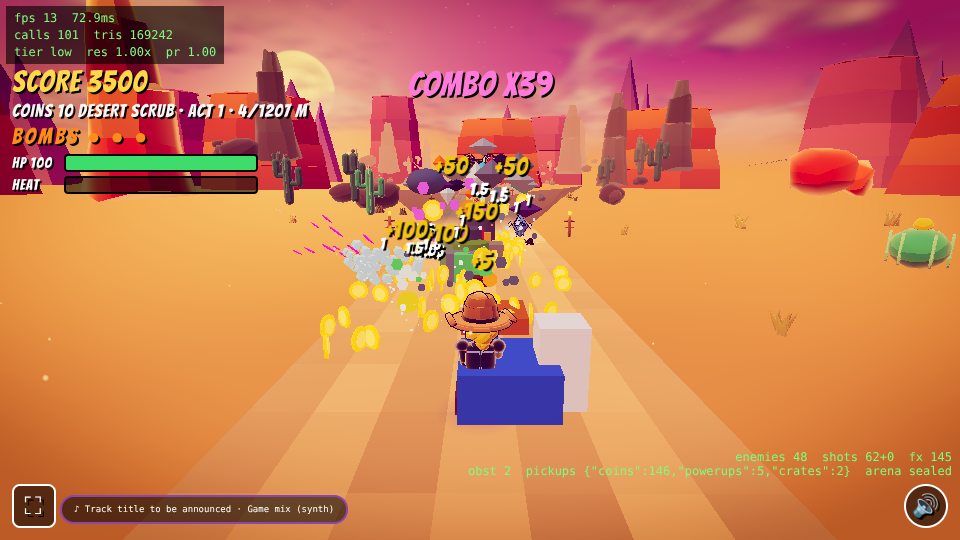
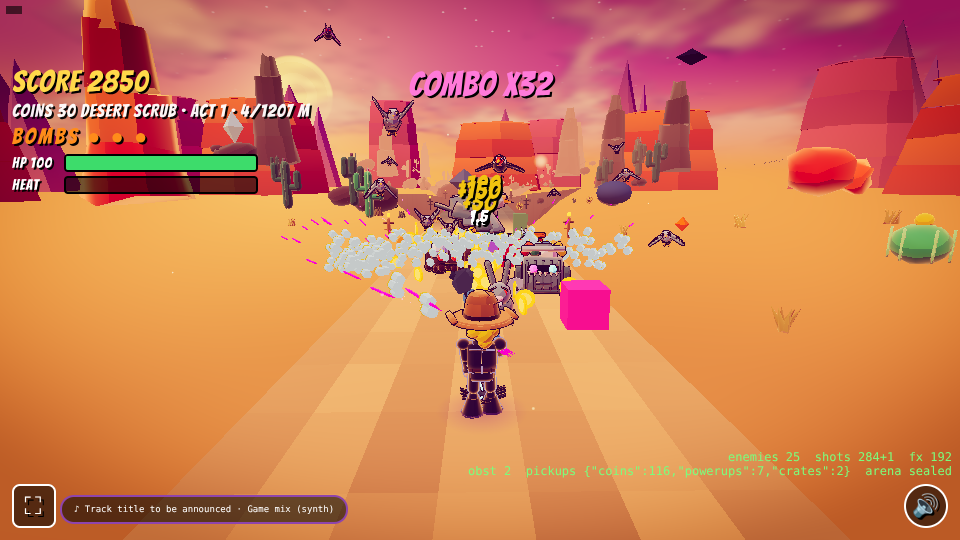
Debug enemy spawner uses the stage roster (all 35 types are modelled now; spawning every type blew the stress-test draw-call budget)
Claude-Session: https://claude.ai/code/session_01WPEpbC6ccqQvgcVEtffvyB

diff --git a/game3d/actors/spawner.js b/game3d/actors/spawner.js
@@ -1,5 +1,5 @@
 import { run } from '../core/state.js';
-import { ENEMY_TYPES, ENEMIES } from '../data/enemies.js';
+import { ENEMIES } from '../data/enemies.js';
 
 // Turns the generator's slots into actors as the player approaches, and adds ambushes on a timer.
 // Original pacing (7125-7195): interval = max(30, 120 - diff) frames, diff = min(60, localScore/80) + 3*(stage-1) + 10*(loop-1);
@@ -65,11 +65,12 @@ export function createSpawner(ctx) {
     if (api.ambush()) api.ambushes++;
   };
 
-  // Debug: n enemies spread over all archetypes, 4-30 m ahead of the player.
+  // Debug: n enemies of this stage's roster (every archetype it has), 4-30 m ahead of the player. (All 35 types are modelled now, so spawning every type at once
+  // would blow the draw-call budget in the stress test: each modelled part is its own instanced draw.)
   api.spawnDebug = (n) => {
     const b = P(); let made = 0;
     for (let i = 0; i < n; i++) {
-      const type = ENEMY_TYPES[(i * 7 + api.slotSpawns) % ENEMY_TYPES.length], def = ENEMIES[type];
+      const pool = [...new Set(ctx.stageData.roster.flat())], type = pool[(i * 7 + api.slotSpawns) % pool.length], def = ENEMIES[type];
       const e = ctx.enemies.spawn(type, b.s + 4 + Math.random() * 26, b.x + (Math.random() - 0.5) * 6, b.y, { active: true, edgeX: def.climb ? 2 : undefined });
       if (e) made++;
     }
